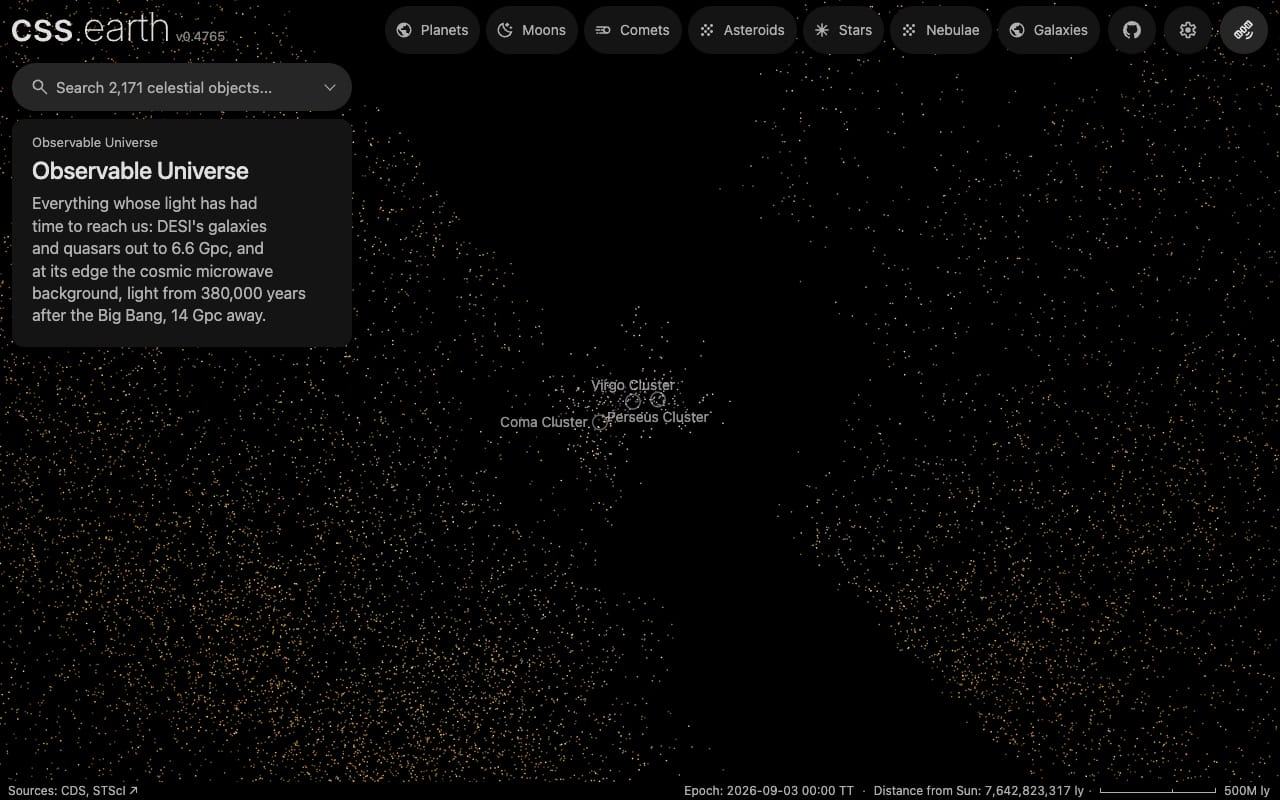
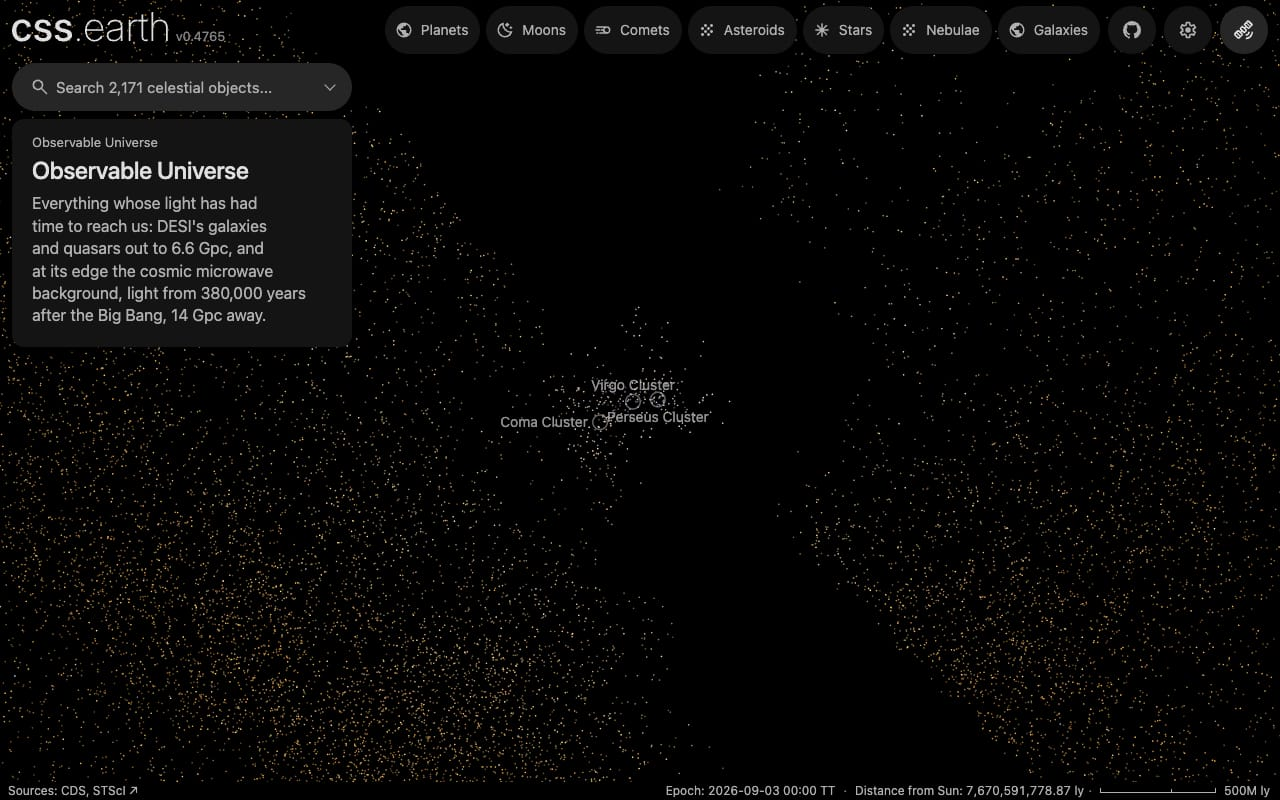
fix(universe): cluster names give way as the cosmic microwave background closes over them

diff --git a/packages/renderer/src/universe/image-mesh.test.ts b/packages/renderer/src/universe/image-mesh.test.ts
@@ -1,0 +1,37 @@
+import { expect, test } from 'vitest';
+import { parseHTML } from 'linkedom';
+import { mountImageMesh, parseImageMesh } from './image-mesh.js';
+
+const MPC = 3.0856775814913673e22;
+const frame = { referenceFrame: 'sun-icrf', epochJdTt: 2451545, originM: [0, 0, 0], localToReferenceXyzw: [0, 0, 0, 1], metersPerUnit: MPC,
+  boundsUnits: { min: [-100, -100, -100], max: [100, 100, 100] } };
+const leaf = { style: { width: '32px', height: '32px', transform: 'matrix3d(1,0,0,0,0,1,0,0,0,0,1,0,0,0,0,1)', backgroundSize: '640px 640px', backgroundPosition: '-32px 0px' } };
+const mesh = { schema: 'cssearth-image-mesh@1', id: 'sphere', frame, radiusUnits: 100, texture: { path: 'sphere/sphere.webp' }, leaves: [leaf, leaf] };
+const viewport = { focalPixels: 800, principalOffsetPixels: [0, 0] as const, widthPixels: 1000, heightPixels: 800 };
+const at = (mpc: number) => ({ world: { referenceFrame: 'sun-icrf', epochJdTt: 2451545, pose: { positionM: [0, 0, mpc * MPC] as const, orientationXyzw: [0, 0, 0, 1] as const } }, viewport });
+
+test('an image mesh bank names its texture, radius and leaves, and refuses a malformed one', () => {
+  expect(parseImageMesh(mesh).leaves).toHaveLength(2);
+  expect(() => parseImageMesh({ ...mesh, radiusUnits: 0 })).toThrow(/sphere: the mesh needs a positive radius/);
+  expect(() => parseImageMesh({ ...mesh, leaves: [{ style: { ...leaf.style, transform: '' } }] })).toThrow(/sphere: leaf 0 needs its/);
+});
+
+test('a mesh loads when it may show, then shows only from outside, fading in from its radius to twice that', async () => {
+  const { document } = parseHTML('<div id="host"></div>'), host = document.getElementById('host')!;
+  let fetched = 0;
+  const mounted = mountImageMesh({ host, before: null, url: '/sphere.json', fetchJson: async () => { fetched++; return mesh; }, resolveResource: path => `/${path}` });
+  expect(mounted.publish(at(300), 0)).toBe(0);
+  expect(fetched, 'nothing loads while the caller keeps it hidden').toBe(0);
+  expect(mounted.publish(at(300), 1)).toBe(0);
+  await new Promise(resolve => setTimeout(resolve, 0));
+  expect(fetched).toBe(1);
+  expect(mounted.root.querySelectorAll('s')).toHaveLength(2);
+  expect(mounted.root.querySelector<HTMLElement>('s')!.style.backgroundImage).toContain('/sphere/sphere.webp');
+  expect(mounted.publish(at(50), 1), 'inside the sphere it is not drawn').toBe(0);
+  expect(mounted.root.style.display).toBe('none');
+  expect(mounted.publish(at(150), 1)).toBeCloseTo(.5);
+  expect(mounted.publish(at(250), 1), 'whole from twice its radius').toBe(1);
+  expect(mounted.publish(at(250), .5), "the caller's opacity scales it").toBe(.5);
+  mounted.destroy();
+  expect(host.children).toHaveLength(0);
+});

diff --git a/packages/renderer/src/universe/prepared-universe-runtime.ts b/packages/renderer/src/universe/prepared-universe-runtime.ts
@@ -284,7 +284,7 @@ export function createPreparedUniverse({ context, volume, pointAppearance, resol
               if (detailContextOpacity > 0) background.prefetch(distanceM);
               additionalPoints.publish({world, viewport}, distanceM);
               // Loaded and drawn only far outside the galaxies' own scale.
-              for (const mesh of meshes) mesh.publish({ world, viewport }, logarithmicFade(distanceM, IMAGE_MESH_LOAD_DISTANCE_M / 2, IMAGE_MESH_LOAD_DISTANCE_M));
+              const meshCover = Math.max(0, ...meshes.map(mesh => mesh.publish({ world, viewport }, logarithmicFade(distanceM, IMAGE_MESH_LOAD_DISTANCE_M / 2, IMAGE_MESH_LOAD_DISTANCE_M))));
               const fade = logarithmicFade(distanceM, plan.volume.fadeStartDistanceM, plan.volume.fullDistanceM);
               const volumeOpacity = background.publish(world, viewport, distanceM, selected.positionM, detailContextOpacity);
               catalogBanks.publishImages(world, viewport, volumeOpacity, detailedFocus?.objectId);
@@ -305,7 +305,8 @@ export function createPreparedUniverse({ context, volume, pointAppearance, resol
               const catalogPresentation = catalogBanks.presentation;
               if (catalogPresentation) {
                 const galaxyOpacity = localAnnotations * logarithmicFade(distanceM, catalogPresentation.fadeStartDistanceM, catalogPresentation.fullDistanceM);
-                const clusterOpacity = catalogPresentation.clusters ? logarithmicFade(distanceM, catalogPresentation.clusters.fadeStartDistanceM, catalogPresentation.clusters.fullDistanceM) : 0;
+                // The clusters lie inside the cosmic microwave background: their names give way as it closes over them.
+                const clusterOpacity = (catalogPresentation.clusters ? logarithmicFade(distanceM, catalogPresentation.clusters.fadeStartDistanceM, catalogPresentation.clusters.fullDistanceM) : 0) * (1 - meshCover);
                 const dotOpacity = (1 - logarithmicFade(distanceM, 30e6 * 3.085677581491367e16, 120e6 * 3.085677581491367e16)) * logarithmicFade(distanceM, catalogPresentation.fadeStartDistanceM, catalogPresentation.fullDistanceM);
                 const nebulaOpacity = (1 - fade) * logarithmicFade(distanceM, plan.stars.fadeStartDistanceM, plan.stars.fullDistanceM);
                 if (!catalogBanks.catalog && Math.max(galaxyOpacity, clusterOpacity, dotOpacity, nebulaOpacity) > 0) void catalogBanks.ensureCatalog().catch(() => {});

diff --git a/packages/renderer/src/universe/image-mesh.ts b/packages/renderer/src/universe/image-mesh.ts
@@ -54,8 +54,9 @@ export function mountImageMesh({ host, before, url, fetchJson, resolveResource }
     if (nextTransform !== transform) scene.style.transform = transform = nextTransform;
   };
   return Object.freeze({ root,
-    publish(publication: VolumeCameraPublication, shown = 1) {
-      if (destroyed) return;
+    /** Publishes the camera and returns the mesh's opacity, so what lies inside it can give way as it closes over. */
+    publish(publication: VolumeCameraPublication, shown = 1): number {
+      if (destroyed) return 0;
       const distanceM = Math.hypot(...publication.world.pose.positionM);
       const radiusM = payload ? payload.radiusUnits * payload.frame.metersPerUnit : null;
       // Before the bank loads its radius is unknown; it loads once the camera is past the fade's far end of any mesh
@@ -68,10 +69,10 @@ export function mountImageMesh({ host, before, url, fetchJson, resolveResource }
         const display = alpha > 0 ? '' : 'none';
         if (root.style.display !== display) root.style.display = display;
         if (alpha > 0) draw(publication);
-        return;
+        return alpha;
       }
       latest = publication;
-      if (loading || !(shown > 0)) return;
+      if (loading || !(shown > 0)) return 0;
       loading = true;
       void fetchJson(url).then(value => {
         if (destroyed) return;
@@ -87,6 +88,7 @@ export function mountImageMesh({ host, before, url, fetchJson, resolveResource }
         root.dataset.imageMesh = payload.id;
         if (latest) this.publish(latest, shown);
       }).catch(error => { root.dataset.imageMesh = 'failed'; console.error(`Image mesh ${url} failed`, error); });
+      return 0;
     },
     destroy() { destroyed = true; root.remove(); } });
 }
